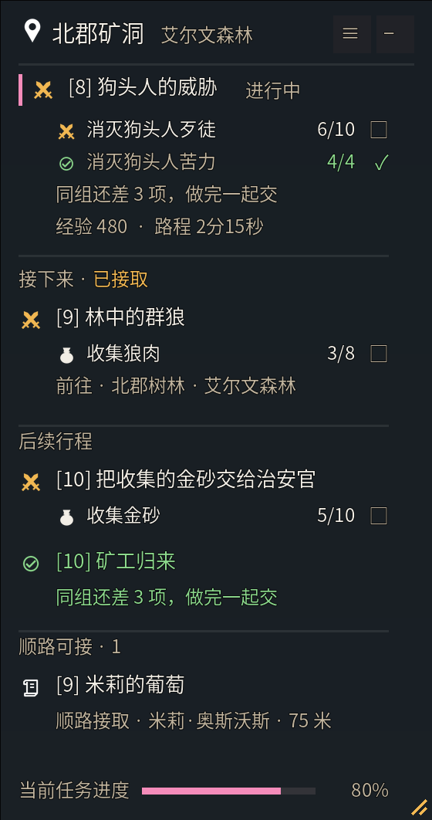
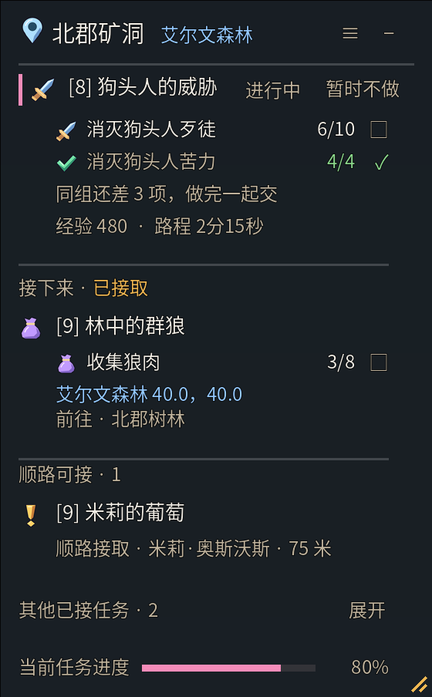
Keep later accepted quests below the active itinerary

diff --git a/README.md b/README.md
@@ -16,7 +16,7 @@
 <table>
   <tr>
     <td width="35%" valign="top" align="center">
-      <a href="https://github.com/haphap/AiLeveling/blob/main/docs/images/tracker.png"><img src="https://raw.githubusercontent.com/haphap/AiLeveling/main/docs/images/tracker.png" width="300" alt="任务追踪：当前目标、接下来、后续行程和顺路任务"></a>
+      <a href="https://github.com/haphap/AiLeveling/blob/main/docs/images/tracker.png"><img src="https://raw.githubusercontent.com/haphap/AiLeveling/main/docs/images/tracker.png" width="300" alt="任务追踪：当前目标、下一步、顺路任务和可展开的已接任务"></a>
       <br><b>边走边做。</b><br>目标数量、下一步与顺路机会集中显示。
     </td>
     <td width="65%" valign="top" align="center">
@@ -54,7 +54,7 @@
 - **动态任务行程。** 按当前位置、等级、任务进度与前置关系安排接取、目标和交付，比较整批经验与跑路距离。自动跳过过级、往返远且收益低的任务，保留同路目标和有价值的后续；也可自行暂缓或锁定任务。
 - **DaylightUI 皮肤。** 启用 DaylightUI 后自动跟随其窗口、按钮、字体与配色，各窗口与控件的底色统一为 60% 透明；未启用时使用默认外观。
 - **按批次换区。** 先完成本区值得做的已接任务并集中交付，再前往下一站；行程明确列出要交的任务、下一站要接的任务，以及适合升级后回访的任务。
-- **一起做，一起交。** 合并附近与共同目标，同一 NPC 的任务尽量集中交付；完成后明确提示现在就近交，还是做完同组再交。主行程连续展示，附近可接任务与未开通飞行点列在主行程之后，点击即可导航；适合下一级做的本地任务可先接备用，并标明建议等级。
+- **一起做，一起交。** 合并附近与共同目标，同一 NPC 的任务尽量集中交付；完成后明确提示现在就近交，还是做完同组再交。当前步骤和下一步连续展示，稍后才做的已接任务收在列表底部，点击「其他已接任务」可展开。附近可接任务与未开通飞行点列在主行程之后，点击即可导航；适合下一级做的本地任务可先接备用，并标明建议等级。
 - **路过就提醒。** 附近有顺路目标时显示“顺便完成”、具体行动、剩余数量和距离，点击让箭头指路，右键忽略附近提示；同一目标再次忽略后，本次地图停留期间不再提示。
 - **地图标记。** 大地图用角标显示行程顺序，职业色外环标出当前目的地。绿色问号可立即交付，灰色问号是后续交付。小地图显示附近能做的任务和当前目的地方向。左键点击已接任务的目标标记，可在大地图查看游戏自带的任务范围。
 - **飞行地图。** 与飞行管理员交谈后，AILeveling 会为当前角色记住从本站可搭乘的航班。行程需要搭飞机时，航线图会在可搭乘的目的站上显示箭头和「下一步 · 站名」。启用自动乘坐时，先显示标记 1 秒再起飞。按住 Shift 打开航线图可手动选择。
